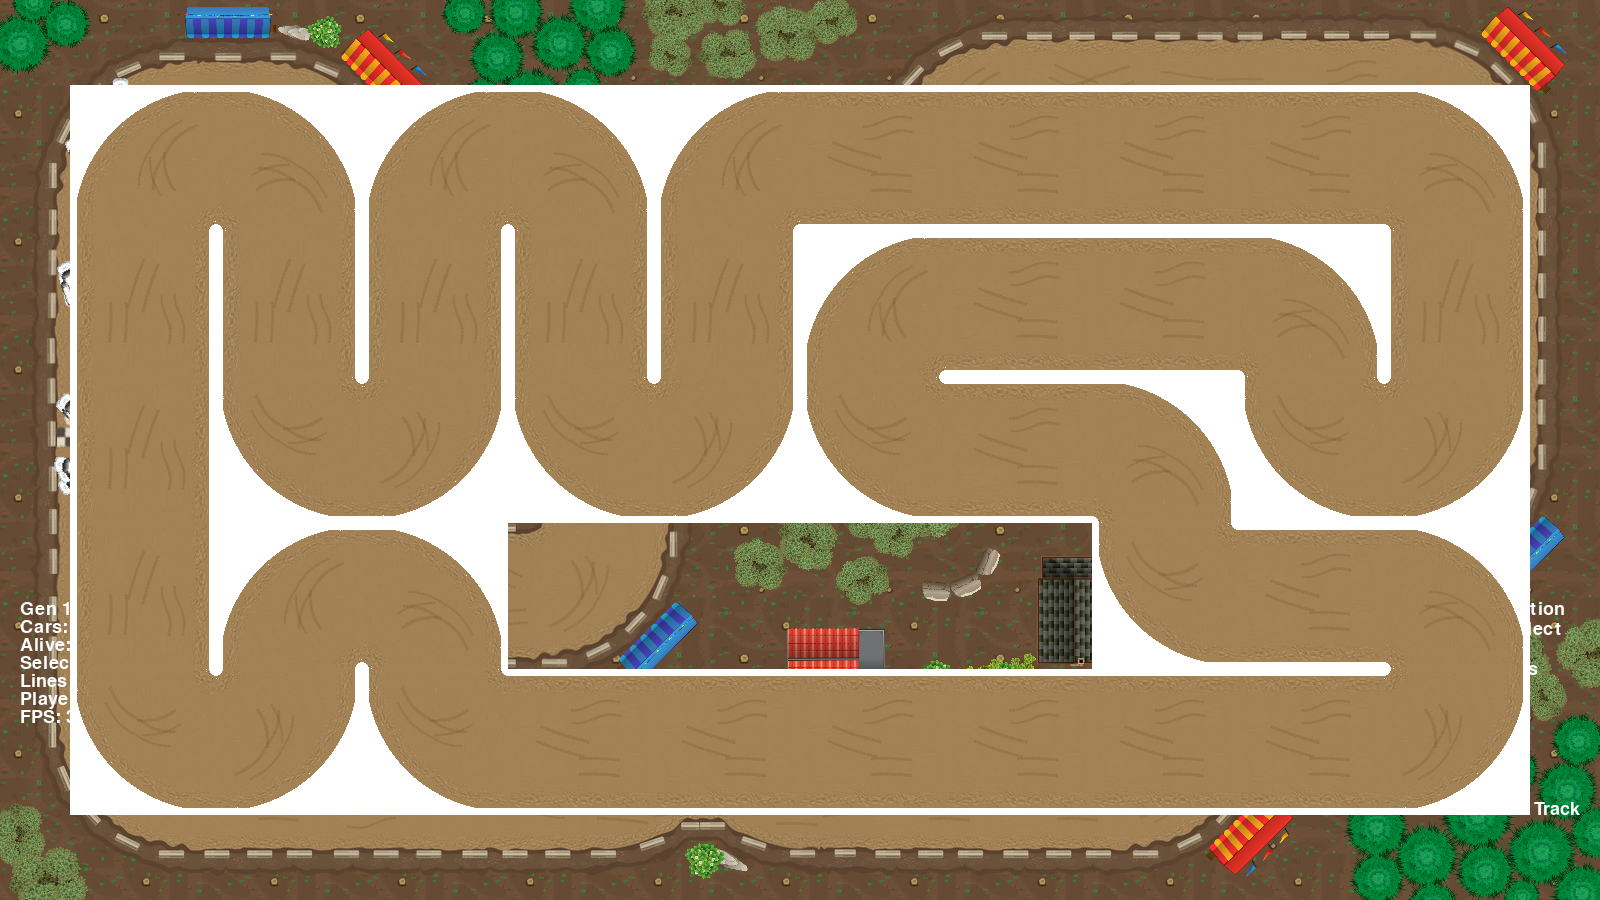
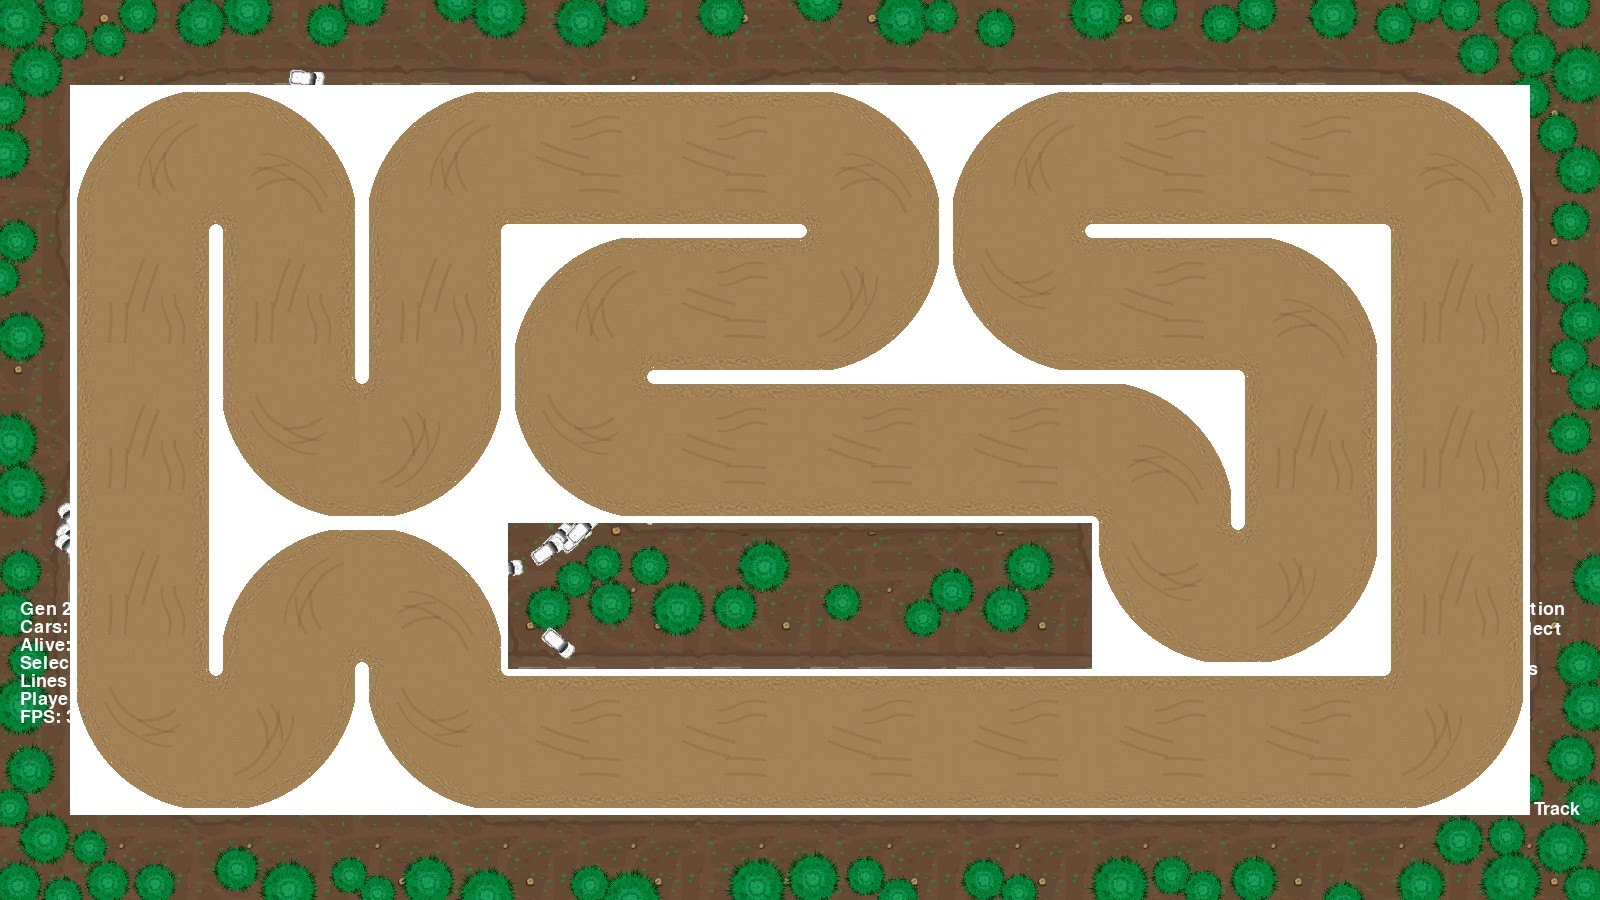
Started to automate the selection of cars and moving out functionality.

Changed region(s): [[0.0, 0.0, 1.0, 1.0]]

diff --git a/nnCarGame.py b/nnCarGame.py
@@ -12,7 +12,7 @@ img = 0
 size = width, height = 1600, 900
 
 generation = 1
-mutationRate = 90
+mutationRate = 60
 FPS = 30
 selectedCars = []
 selected = 0
@@ -218,7 +218,7 @@ def uniformCrossOverBiases(
 
 
 nnCars = []  # List of neural network cars
-num_of_nnCars = 50  # Number of neural network cars
+num_of_nnCars = 150  # Number of neural network cars
 alive = num_of_nnCars  # Number of not collided (alive) cars
 collidedCars = []  # List containing collided cars
 
@@ -352,6 +352,9 @@ def redrawGameWindow():  # Called on very frame
             nncar.takeAction()
         nncar.draw(gameDisplay)
 
+    if alive <= len(nnCars) - 200:
+        new_generation()
+
     # Same but for player
     if player:
         car.update()
@@ -365,6 +368,73 @@ def redrawGameWindow():  # Called on very frame
     # Take a screenshot of every frame
     # pygame.image.save(gameDisplay, "pygameVideo/screenshot" + str(img) + ".jpeg")
     # img += 1
+
+
+def new_generation():
+    global alive
+    global nnCars
+    global selectedCars
+    global generation
+    # Get the top cars based on current score.
+    # First just do the slow operation of taking them based on sorting.
+    sorted_cars = sorted(nnCars, key=lambda c: -c.score)
+
+    # top k cars to consider
+    k = 10
+    m = 1
+    print([c.score for c in sorted_cars])
+    selectedCars = [sorted_cars[0]]
+    selectedCars.extend(
+        [sorted_cars[random.randint(k, num_of_nnCars - 1)] for _ in range(m)]
+    )
+
+    if len(selectedCars) >= 2:
+        for nncar in nnCars:
+            nncar.score = 0
+
+        alive = num_of_nnCars
+        generation += 1
+        selected = 0
+        nnCars.clear()
+
+        for i in range(num_of_nnCars):
+            nnCars.append(Car([inputLayer, hiddenLayer, outputLayer]))
+
+        for i in range(0, num_of_nnCars - 2, 2):
+            uniformCrossOverWeights(
+                selectedCars[0], selectedCars[1], nnCars[i], nnCars[i + 1]
+            )
+            uniformCrossOverBiases(
+                selectedCars[0], selectedCars[1], nnCars[i], nnCars[i + 1]
+            )
+
+        # for ind, c in enumerate(selectedCars):
+        car = selectedCars[0]
+
+        nnCars[num_of_nnCars - 2] = car
+        nnCars[num_of_nnCars - 2].car_image = green_small_car
+        nnCars[num_of_nnCars - 2].resetPosition()
+        nnCars[num_of_nnCars - 2].collided = False
+
+        car = selectedCars[1]
+
+        nnCars[num_of_nnCars - 1] = car
+        nnCars[num_of_nnCars - 1].car_image = green_small_car
+        nnCars[num_of_nnCars - 1].resetPosition()
+        nnCars[num_of_nnCars - 1].collided = False
+
+        for i in range(num_of_nnCars - 2):
+            for j in range(mutationRate):
+                mutateOneWeightGene(nnCars[i], auxcar)
+                mutateOneWeightGene(auxcar, nnCars[i])
+                mutateOneBiasesGene(nnCars[i], auxcar)
+                mutateOneBiasesGene(auxcar, nnCars[i])
+        if number_track != 1:
+            for nncar in nnCars:
+                nncar.x = 140
+                nncar.y = 610
+
+        selectedCars.clear()
 
 
 while True:
@@ -403,50 +473,7 @@ while True:
                 bg4 = pygame.image.load("randomGeneratedTrackBack.png")
 
             if event.key == ord("b"):
-                if len(selectedCars) == 2:
-                    for nncar in nnCars:
-                        nncar.score = 0
-
-                    alive = num_of_nnCars
-                    generation += 1
-                    selected = 0
-                    nnCars.clear()
-
-                    for i in range(num_of_nnCars):
-                        nnCars.append(Car([inputLayer, hiddenLayer, outputLayer]))
-
-                    for i in range(0, num_of_nnCars - 2, 2):
-                        uniformCrossOverWeights(
-                            selectedCars[0], selectedCars[1], nnCars[i], nnCars[i + 1]
-                        )
-                        uniformCrossOverBiases(
-                            selectedCars[0], selectedCars[1], nnCars[i], nnCars[i + 1]
-                        )
-
-                    nnCars[num_of_nnCars - 2] = selectedCars[0]
-                    nnCars[num_of_nnCars - 1] = selectedCars[1]
-
-                    nnCars[num_of_nnCars - 2].car_image = green_small_car
-                    nnCars[num_of_nnCars - 1].car_image = green_small_car
-
-                    nnCars[num_of_nnCars - 2].resetPosition()
-                    nnCars[num_of_nnCars - 1].resetPosition()
-
-                    nnCars[num_of_nnCars - 2].collided = False
-                    nnCars[num_of_nnCars - 1].collided = False
-
-                    for i in range(num_of_nnCars - 2):
-                        for j in range(mutationRate):
-                            mutateOneWeightGene(nnCars[i], auxcar)
-                            mutateOneWeightGene(auxcar, nnCars[i])
-                            mutateOneBiasesGene(nnCars[i], auxcar)
-                            mutateOneBiasesGene(auxcar, nnCars[i])
-                    if number_track != 1:
-                        for nncar in nnCars:
-                            nncar.x = 140
-                            nncar.y = 610
-
-                    selectedCars.clear()
+                new_generation()
 
             if event.key == ord("m"):
                 if len(selectedCars) == 2:

diff --git a/controls.py b/controls.py
@@ -1,0 +1,3 @@
+
+
+
